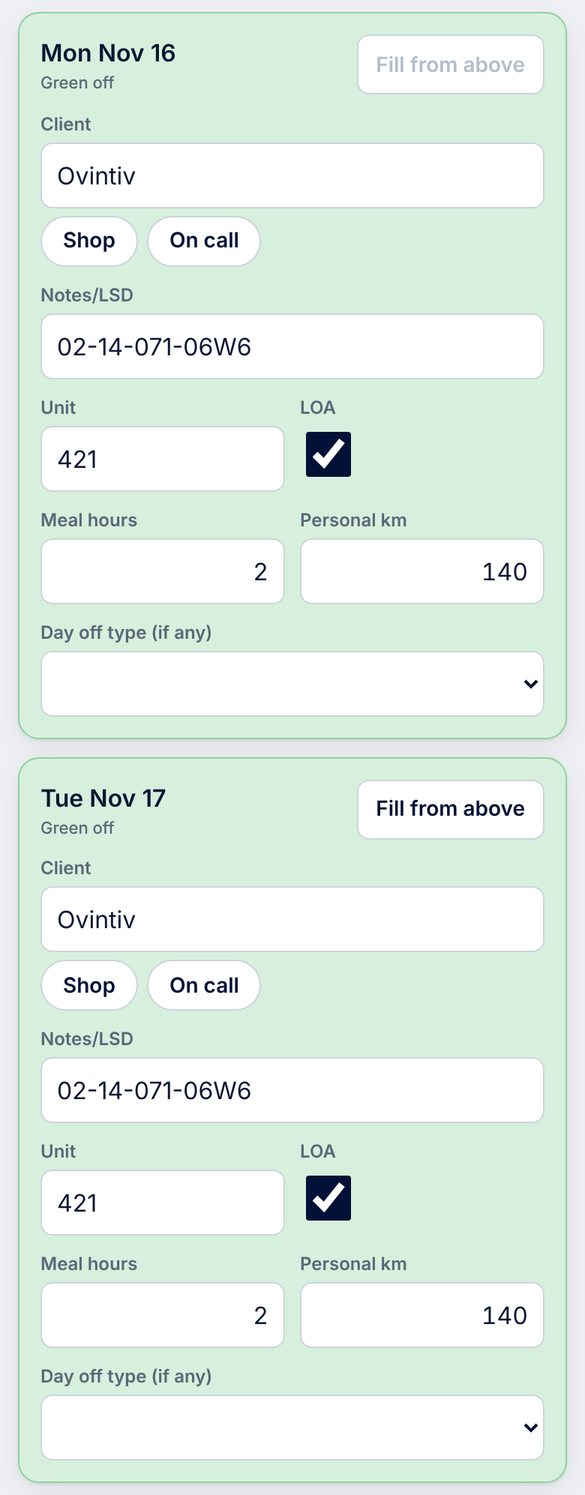
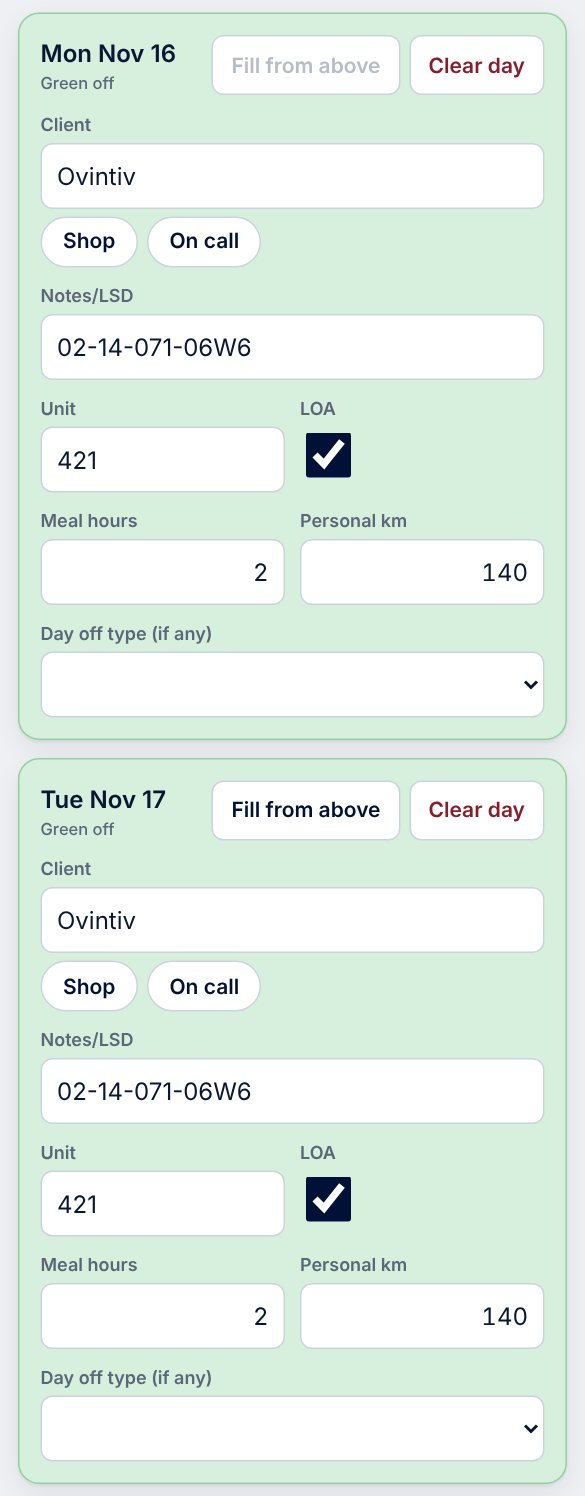
Retake help screenshots with sample names and the new buttons
Claude-Session: https://claude.ai/code/session_01VgqTXuLLtJJicGurfgpvmt

diff --git a/help.html b/help.html
@@ -66,7 +66,7 @@ td:first-child{font-weight:700;white-space:nowrap}
 <tr><td>Day off type</td><td>Only on days off: <b>Day off</b>, <b>Vacation/time off</b> or <b>Unpaid day taken</b>. If you worked a scheduled day off, pick <b>Day off worked</b>. Leave blank on regular workdays.</td></tr>
 </table>
 <p><b>Fill from above</b> copies everything from the day before. Use it when today is the same as yesterday, then change anything that's different. On a computer, <b>Ctrl+D</b> copies just the box you're in.</p>
-<img src="help/day.jpg" alt="A filled-in day, and the next day copied with Fill from above" loading="lazy">
+<img src="help/day.jpg" alt="A filled-in day, and the next day copied with Fill from above. Each day has a Clear day button" loading="lazy">
 <p><b>Days off fill in Client for you.</b> Picking Day off, Vacation/time off or Unpaid day taken puts that text in Client, so Client is never blank. Day off worked leaves Client for you to fill in.</p>
 <p><b>Changed your mind?</b> Shop and On call mean you worked, so tapping one removes a Day off type. Picking a Day off type replaces Shop or On call in Client. <b>Day off worked</b> goes together with Shop or On call. If a day gets mixed up, use <b>Clear day</b> and start that day again.</p>
 <p><b>Shaded cards</b> are each crew's scheduled days off (Blue, Yellow or Green). The crew is written under the date.</p>

diff --git a/sw.js b/sw.js
@@ -1,5 +1,5 @@
 // Caches the app so it opens offline. Bump CACHE to force everyone to refresh.
-var CACHE = "timesheet-v32";
+var CACHE = "timesheet-v33";
 var FILES = ["./", "index.html", "manifest.webmanifest", "icon-192.png", "icon-512.png", "apple-touch-icon.png", "logo.png", "config.js", "help.html", "help/name.jpg", "help/header.jpg", "help/day.jpg", "help/shop_dayoff.jpg", "help/bottom.jpg"];
 
 self.addEventListener("install", function (e) {
